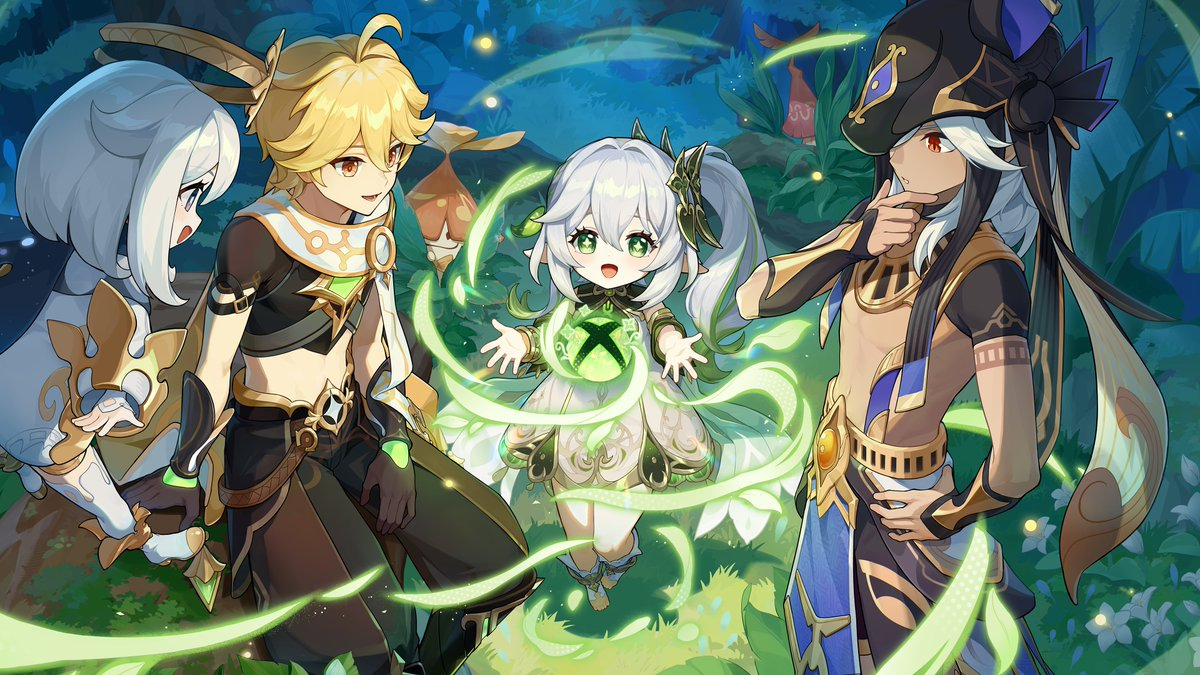
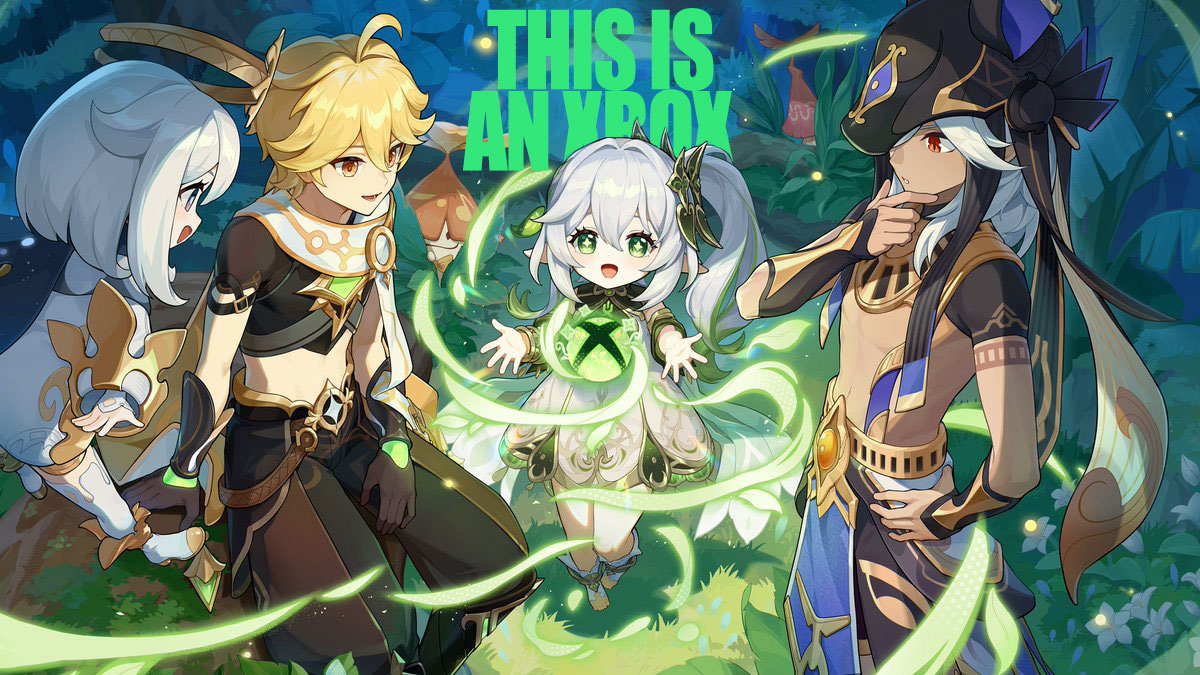
More headers changes

Changed region(s): [[0.37, 0.0, 0.6167, 0.28]]

diff --git a/index.md b/index.md
@@ -1,12 +1,12 @@
 <p align="center"><img src="header_00.jpg"/></p>
 
-**Genshin Impact** is a F2P open world action RPG with co-op multiplayer by Chinese developer **Hoyoverse**.
+**Genshin Impact** is a F2P open world action RPG with co-op multiplayer by Chinese developer **Hoyoverse**. The Xbox Series X/S version will be releasing on November 20, 2024 as announced by Hoyoverse at gamescom Opening Night Live 2024.
 
 <p align="center"><img src="this_is_paimon.jpg"/><img src="this_is_traveler.jpg"/></p>
 
 <p align="center"><img src="header_00_xbox.jpg"/></p>
 
-The Xbox Series X/S version will be releasing on November 20, 2024 as announced by Hoyoverse at gamescom Opening Night Live 2024. Genshin Impact will also be available on Xbox Game Pass service.
+Genshin Impact will also be available on Xbox Game Pass service.
 
 A Switch version has also been announced without a specific date as of yet.
 
@@ -45,7 +45,7 @@ Note for PlayStation players, purchases can only be made through PSN and it is o
 
 Your main character is the Traveler from a far away world. You choose between the twins Lumine (girl) or Aether (boy). The twin you don't pick will still play a major role in the game's story.
 
-<p align="center"><img src="characters_00.jpg"/></p>
+<p align="center"><img src="characters_00.png"/></p>
 
 You are joined on your journey by a big number of unique characters. These are all the playable characters that have so far been revealed:
 
